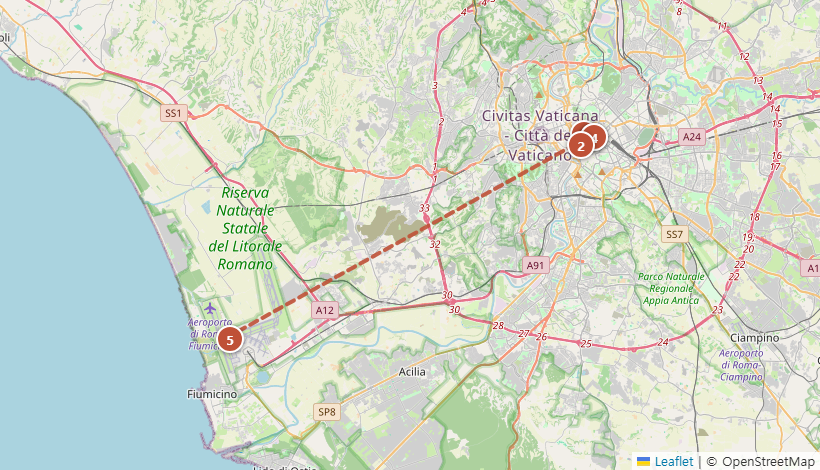
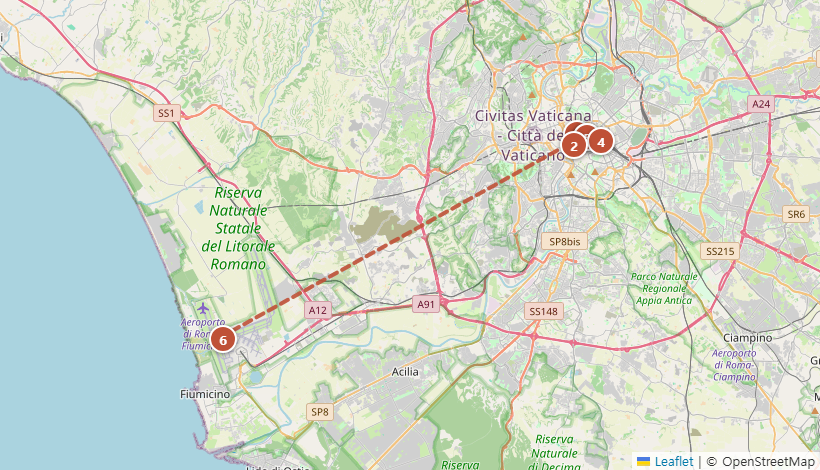
아시아나 스케줄 변경 반영 (OZ521 08:30 / OZ562 22:45)
2026-09-18 아시아나 통보 2건(예약 FNY59H).

🔴 OZ521 ICN→LHR 07:50 → 08:30
- LHR 도착 14:20 → 약 15:00, A3603(16:35) 환승이 2h15 → 1h35로 축소.
- OZ521·A3603 모두 히드로 T2(스타얼라이언스)라 터미널 이동은 없고 같은
  터미널 MCT 60분은 통과하지만, 국제→국제 권장치(90~120분) 경계라
  여유가 5~35분뿐. OZ521이 30분만 밀려도 미스커넥트.
- 10/10 카드에 경고·게이트 직행 안내·실질 탑승마감(16:15) 추가.
- 미스커넥트 플랜B를 alts에 명시: 같은 발권이면 A3609(LHR 22:15 →
  ATH 03:50) 무료 배치, 그 경우 숙소 새벽 도착 통보 + 10/11 오전 포기하고
  오후 한국어 투어만 살리기.
- 준비 탭 최우선 항목 교체: e-티켓 티켓번호로 단일/별도 발권 자가진단
  (988 한 종류 = 단일 발권, A3 구간에 390 별도 번호 = 별도 발권이라
  95분으로 불가), 구매처 우선 연락, 항공사 귀책이므로 무상 재조정 요구.
- ICN 05:30 도착·LHR 게이트 직행을 당일 체크리스트로 분리.

🟢 OZ562 FCO→ICN 21:25 → 22:45
- 인천 도착 10/24(토) 15:40 → 약 17:00. FCO 하드마감 18:20 → 19:45.
- 짐 찾기 15:30 → 17:00, 택시 출발 17:15로 조정.
- 생긴 1시간 25분에 팔라초 마시모(국립로마박물관) 선택 일정 추가.
  테르미니역 옆이라 공항 동선 위에 그대로 걸림. 금요일 정상 개관,
  €8/인, 예약 불필요, 실내. 사용자 요청대로 "안 가도 된다"를 소개글·
  행·대안칩 세 군데에 명시 — 지치면 생략하고 17:00 짐 찾기만 지키면 됨.
- 마지막 페이지(10/24) 도착 시각, DAYS[13] 좌표·시각, map-13.png 갱신.
- 준비 탭에 귀국 후 일정(공항 픽업 등) 재확인 항목 추가.

기타:
- 예약 캘린더에 '오늘 당장' 줄 신설 (OZ521 통화 / Cavo Tagoo 시즌 종료 /
  GQ350 시각 확정).
- test.js: 새 시각 반영 + 옛 시각이 "07:50 → 08:30" 같은 변경 안내
  문맥 밖에 남아 있으면 실패하도록 검증 추가. 캐시 버전 검사는
  고정값 대신 형식 검사로 완화.
- sw.js 캐시 v5 → v6.

diff --git a/index.html b/index.html
@@ -284,7 +284,8 @@
   <div class="day-h"><div class="daytag" style="--c: var(--teal)"><div><span class="dow">준비</span><div class="dt">D-day</div></div></div><div><div class="title">출발 전 준비</div><div class="sub">여권·비자·보험·현금 · 예약 캘린더 · 긴급정보</div></div></div>
   <div class="sec daysec"><div class="sec-h"><h2>🧳 챙길 것 · 확인</h2></div><div class="list"><label class="item"><input type="checkbox" data-k="p-cavo-season" /><span class="box"><svg viewBox="0 0 14 14"><path d="M2 7.5 L6 11 L12 3" /></svg></span><span class="txt"><span class="name">Cavo Tagoo <b>10/19 시즌 종료</b> 메일 확인 <span class='tag hot'>최우선</span></span><span class="desc">2026 시즌이 <b>4/30~10/19</b>로 공지돼 있어 <b>체크아웃 날이 시즌 마지막 날</b>입니다. 막바지엔 스파·레스토랑을 먼저 닫는 사례가 있고 드물게 폐관일을 앞당깁니다. 메일 4문항: ① 10/16~19 예약 유효 ② <b>10/18 커플 스파 운영</b> ③ 인피니티풀·케이브 레스토랑 10/19까지 정상 ④ 10/19 레이트 체크아웃</span></span></label><label class="item"><input type="checkbox" data-k="p-brewtour" /><span class="box"><svg viewBox="0 0 14 14"><path d="M2 7.5 L6 11 L12 3" /></svg></span><span class="txt"><span class="name">🍺 아테네 브루어리 홉핑 투어 예약 (10/12 저녁)</span><span class="desc">그리스 법상 브루어리 상설 탭룸 금지 → <b>Noctua는 가이드 투어로만 내부 진입</b>. 3~3.5h, 2인 €100~150, 시음+안주(저녁 겸용). GetYourGuide·Viator·gastronomytours.com. 플랜B = Strange Brew 탭룸(숙소 도보 5분, 예약 불필요)</span></span></label><label class="item"><input type="checkbox" data-k="p-passport" /><span class="box"><svg viewBox="0 0 14 14"><path d="M2 7.5 L6 11 L12 3" /></svg></span><span class="txt"><span class="name">여권 3개월+ 유효 · 사본 폰 저장 <span class='tag hot'>필수</span></span><span class="desc">솅겐 출국(10/23) 기준 잔여 3개월 이상 + 발급 10년 이내. 갱신 2~3주. 여권 사진·사본 클라우드 저장</span></span></label><label class="item"><input type="checkbox" data-k="p-etias" /><span class="box"><svg viewBox="0 0 14 14"><path d="M2 7.5 L6 11 L12 3" /></svg></span><span class="txt"><span class="name">솅겐 ETIAS 시행 여부 확인</span><span class="desc">travel-europe.europa.eu. 시행됐으면 신청(€7, 몇 분). 한국 여권 90일 무비자는 유지</span></span></label><label class="item"><input type="checkbox" data-k="p-insurance" /><span class="box"><svg viewBox="0 0 14 14"><path d="M2 7.5 L6 11 L12 3" /></svg></span><span class="txt"><span class="name">여행자보험 가입 (2인, 10/10~10/24)</span><span class="desc">의료+휴대품+항공지연. 증권 PDF 폰 저장</span></span></label><label class="item"><input type="checkbox" data-k="p-esim" /><span class="box"><svg viewBox="0 0 14 14"><path d="M2 7.5 L6 11 L12 3" /></svg></span><span class="txt"><span class="name">EU 전역 eSIM</span><span class="desc">Airalo/Holafly 등 10~15GB. 그리스·이탈리아 공용</span></span></label><label class="item"><input type="checkbox" data-k="p-strike-check" /><span class="box"><svg viewBox="0 0 14 14"><path d="M2 7.5 L6 11 L12 3" /></svg></span><span class="txt"><span class="name">출발 1주 전 유적 개장시간·파업 재확인</span><span class="desc">그리스는 유적·박물관 노조 파업으로 당일 휴관 생김. culture.gov.gr 공지. 아크로폴리스 2026년 10월 개장(확인 완료): 10/1~10/15 08:00~18:30(마감 18:00), 10/16~10/31 08:00~18:00(마감 17:30)</span></span></label><label class="item"><input type="checkbox" data-k="r-cards-cash" /><span class="box"><svg viewBox="0 0 14 14"><path d="M2 7.5 L6 11 L12 3" /></svg></span><span class="txt"><span class="name">해외결제 카드 2장 + 유로 현금 2인 €700~900</span><span class="desc">€50 이하 지폐로. 산토리니 버스·택시·소형 식당은 현금</span></span></label><label class="item"><input type="checkbox" data-k="r-adapter" /><span class="box"><svg viewBox="0 0 14 14"><path d="M2 7.5 L6 11 L12 3" /></svg></span><span class="txt"><span class="name">C타입 유럽 플러그(220V)</span><span class="desc">한국과 같은 C형이라 어댑터 불필요할 수 있음, 멀티탭 1개</span></span></label><label class="item"><input type="checkbox" data-k="r-shoes" /><span class="box"><svg viewBox="0 0 14 14"><path d="M2 7.5 L6 11 L12 3" /></svg></span><span class="txt"><span class="name">편한 운동화 + 미끄럼 없는 신발</span><span class="desc">대리석·자갈길·돌바닥. 저녁용 신발 따로</span></span></label><label class="item"><input type="checkbox" data-k="r-layers" /><span class="box"><svg viewBox="0 0 14 14"><path d="M2 7.5 L6 11 L12 3" /></svg></span><span class="txt"><span class="name">10월 옷차림 낮 22~26℃ / 밤 15~18℃</span><span class="desc">얇은 겉옷, 산토리니 저녁 바람막이, 성당용 어깨·무릎 가리는 옷, 수영복</span></span></label><label class="item"><input type="checkbox" data-k="r-sun" /><span class="box"><svg viewBox="0 0 14 14"><path d="M2 7.5 L6 11 L12 3" /></svg></span><span class="txt"><span class="name">선크림·선글라스·모자</span><span class="desc">아크로폴리스·포로 로마노·산토리니 능선 그늘 없음</span></span></label><label class="item"><input type="checkbox" data-k="r-meds" /><span class="box"><svg viewBox="0 0 14 14"><path d="M2 7.5 L6 11 L12 3" /></svg></span><span class="txt"><span class="name">상비약 + 멀미약</span><span class="desc">진통·지사·밴드·물집밴드. FR3021·요트 멀미약</span></span></label><label class="item"><input type="checkbox" data-k="r-daybag" /><span class="box"><svg viewBox="0 0 14 14"><path d="M2 7.5 L6 11 L12 3" /></svg></span><span class="txt"><span class="name">보안 크로스백 + 물통</span><span class="desc">로마 지하철·트라스테베레·나보나 소매치기. 유럽 수돗물·분수 식수 가능</span></span></label></div></div>
   <div class="note-card">📅 <b>예약 캘린더 (역산)</b><br>
-· <b>지금</b>: 가이드 회신 · 마이리얼트립 아테네 투어 · hhticket 통합권 · ATH/FR/국제선 항공 확인 · 여권/보험/eSIM · 10/21 남부투어 확정서 확인(예약완료)<br>
+· <b>🔴 오늘 당장</b>: <b>OZ521 스케줄 변경(07:50→08:30) → LHR 환승 95분</b> 구매처에 전화 · Cavo Tagoo 10/19 시즌 종료 확인 · GQ350 실제 시각 확정<br>
+· <b>지금</b>: 가이드 회신 · 마이리얼트립 아테네 투어 · hhticket 통합권 · 여권/보험/eSIM · 10/21 남부투어 확정서 확인(예약완료)<br>
 · <b>미슐랭</b>(Aroma 또는 Per Me, 10/22 저녁): 2~3개월 전<br>
 · <b>콜로세움·판테온</b>(10/22로 이동): 콜로세움 30일 전(9/22) 오픈 즉시, 판테온은 여유<br>
 · <b>산토리니 와인투어 · 요트투어(10/17) · Roscioli · 아테네 브루어리 투어</b>: 3주~1주 전<br>
@@ -321,7 +322,7 @@
         <div class="daytag" style="--c: var(--indigo)"><div><span class="dow">토</span><div class="dt">10/10</div></div></div>
         <div><div class="title">인천 출발 · 아테네 도착 <span class="pill">이동</span></div><div class="sub">OZ521+A3603 · ATH 22:15 도착 · 아테네 스튜디오(마크리야니, 시내) 1박</div></div>
       </div>
-      <div class="day-intro">🛬 <b>도착 당일은 자는 게 일정입니다.</b> 22:15 착륙 → 입국·수하물 60~90분 → <b>바로 시내(아크로폴리스 남쪽 마크리야니)로 이동</b>해 아테네 스튜디오에서 취침. 다음 날 도보 5분 거리의 코코맷 BC로 옮깁니다.<br><br>⚠ <b>OZ521(ICN→LHR)+A3603(LHR→ATH) 연결편, 히드로 환승 수하물 확인 필수</b> — 아래 이동 상세 참고.<br><br><b>💶 오늘 경비(2인)</b> · 🚕 공항 정액택시: 교통 €40(자정 이후 €55) · 입장 €0 · 식비 €10(공항 스낵) → <b>약 €50~65</b></div>
+      <div class="day-intro">🛬 <b>도착 당일은 자는 게 일정입니다.</b> 22:15 착륙 → 입국·수하물 60~90분 → <b>바로 시내(아크로폴리스 남쪽 마크리야니)로 이동</b>해 아테네 스튜디오에서 취침. 다음 날 도보 5분 거리의 코코맷 BC로 옮깁니다.<br><br>🔴 <b>2026-09-18 아시아나 스케줄 변경 통보 — OZ521 출발 07:50 → 08:30.</b> LHR 도착이 약 15:00이 되면서 A3603(16:35 출발) 환승시간이 <b>2시간 15분 → 1시간 35분</b>으로 줄었습니다. OZ521·A3603 둘 다 히드로 <b>T2</b>(스타얼라이언스)라 터미널 이동은 없고 같은 터미널 MCT 60분은 통과하지만, 국제→국제 권장치(90~120분) 경계라 <b>여유가 5~35분뿐</b>입니다. OZ521이 30분만 밀려도 놓칩니다.<br>→ <b>지금 할 일: A3603이 같은 발권인지 확인</b>(준비 탭 최우선 항목). e-티켓 티켓번호가 <b>988</b>로 시작하는 한 종류면 단일 발권(수하물 through-check 보장), A3 구간에 <b>390</b>으로 시작하는 별도 번호가 있으면 별도 발권이라 <b>95분으로는 물리적으로 불가능</b>합니다. 항공사 귀책 변경이므로 <b>무상 재조정 요구 가능</b>.<br><br><b>💶 오늘 경비(2인)</b> · 🚕 공항 정액택시: 교통 €40(자정 이후 €55) · 입장 €0 · 식비 €10(공항 스낵) → <b>약 €50~65</b></div>
       <div class="stats">
         <div class="stat"><b>22:15</b><span>도착</span></div>
         <div class="stat"><b>23:55</b><span>숙소</span></div>
@@ -330,17 +331,21 @@
         <div class="stat"><b>0곳</b><span>관광</span></div>
       </div>
       <div class="rows">
-        <div class="row"><div class="time">07:50</div><div class="act">인천공항(ICN) 출발 — OZ521 (ICN→LHR)<span class="note">공개 스케줄 기준(참고용) · A350, 약 14시간30분. e-티켓 실제 시각 재확인</span></div></div>
-        <div class="row"><div class="time">~14:20</div><div class="act">런던 히드로(LHR) 도착 → 환승<span class="note">국제-국제 환승이라 입국심사 없이 T2 내 트랜짓 보안검색만 통과(확인 완료). 환승시간 약 2시간15분. ⚠ <b>수하물이 ATH까지 한 번에 through-check 되는 단일 예약인지 반드시 확인</b> — 별도 발권이면 여기서 짐 찾고 영국 입국심사·재위탁까지 해야 해서 이 환승시간으론 부족함</span></div></div>
-        <div class="row"><div class="time">16:35</div><div class="act">A3603 (LHR→ATH) 탑승<span class="note">에게항공(스타얼라이언스, OZ와 동맹) · 공개 스케줄 기준. e-티켓 재확인</span></div></div>
+        <div class="row"><div class="time">08:30</div><div class="act">인천공항(ICN) 출발 — OZ521 (ICN→LHR)<span class="note"><b>2026-09-18 변경 통보: 07:50 → 08:30</b>(항공기점검 사유). A350, 약 14시간30분. 탑승 3시간 전 05:30 공항 도착 기준</span></div></div>
+        <div class="row"><div class="time">~15:00</div><div class="act">🔴 런던 히드로(LHR) T2 도착 → 환승 <span class="pill">1h35</span><span class="note">도착 14:20 → <b>약 15:00</b>(블록타임 14h30 동일 가정, e-티켓 실제 시각 재확인). 국제-국제 환승이라 입국심사 없이 <b>T2 내 트랜짓 보안검색만</b> 통과 — A3603도 같은 T2라 터미널 이동 없음.<br>⚠ <b>환승 1시간 35분.</b> 내리자마자 게이트 확인하고 바로 이동하세요. 라운지·면세는 시간 남을 때만. 도착 게이트가 위성터미널(T2B)이면 트랜짓 셔틀 5~10분 추가.<br>⚠ <b>별도 발권이면 여기서 짐 찾고 영국 입국심사·재위탁까지 해야 해서 95분으로는 불가능</b> — 출발 전에 반드시 판정해 두세요</span></div></div>
+        <div class="row"><div class="time">16:35</div><div class="act">A3603 (LHR→ATH) 탑승<span class="note">에게항공(스타얼라이언스, OZ와 동맹) · 히드로 T2. 탑승 마감은 출발 20분 전 = <b>16:15</b>가 실질 마감선. 공개 스케줄 기준이라 e-티켓 재확인</span></div></div>
         <div class="row"><div class="time">22:15</div><div class="act">아테네 국제공항(ATH) 도착<span class="note">입국심사 + 수하물 수취. 심야라 붐비진 않음</span></div></div>
         <div class="row"><div class="time">23:15</div><div class="act">공항 → 아테네 스튜디오 (3a Veikou St, 마크리야니)<span class="note">공항 정액택시 €40(주간) / 00:00~05:00 €55. 35~40분. 메트로 3호선은 막차 약 23:30이라 놓치기 쉬움(€9/인). 숙소에 심야 체크인 미리 메일 확인</span><span class="addr">📍 3a Veikou Street, Makrigianni, Athens 11742 <span class="en">(코코맷 BC서 도보 5분)</span></span><a class="map" href="https://www.google.com/maps/search/?api=1&query=3+Veikou+Street+Makrigianni+Athens" target="_blank" rel="noopener">🗺 지도</a></div></div>
         <div class="row"><div class="time">24:00</div><div class="act">취침<span class="note">저녁은 기내식으로 해결. 공항 내 24시간 스낵바 있음</span></div></div>
       </div>
       
 
-<div class="sec daysec"><div class="sec-h"><h2>✅ 오늘 체크리스트</h2></div><div class="list"><label class="item"><input type="checkbox" data-k="p-flight-oz-intl" /><span class="box"><svg viewBox="0 0 14 14"><path d="M2 7.5 L6 11 L12 3" /></svg></span><span class="txt"><span class="name">OZ521+A3603 연결편 수하물·환승 확인 <span class='tag hot'>확인 안 됨</span></span><span class="desc">ICN→LHR(OZ521)→ATH(A3603), 히드로 환승 약 2시간15분(입국심사 없음). 수하물이 ATH까지 through-check 되는 단일 예약인지 지금 확인 — 별도 발권이면 환승시간 부족</span></span></label><label class="item"><input type="checkbox" data-k="p-athens-transfer" /><span class="box"><svg viewBox="0 0 14 14"><path d="M2 7.5 L6 11 L12 3" /></svg></span><span class="txt"><span class="name">아테네 스튜디오 심야 픽업 확인 <span class='tag hot'>출발 전</span></span><span class="desc">22:15 도착·심야 체크인 가능 메일. 픽업 제공되면 예약(심야 택시 흥정 방지)</span></span></label><label class="item"><input type="checkbox" data-k="d10-esim" /><span class="box"><svg viewBox="0 0 14 14"><path d="M2 7.5 L6 11 L12 3" /></svg></span><span class="txt"><span class="name">eSIM 활성화 확인</span><span class="desc">착륙 직후 데이터 켜지게. 안 되면 공항 와이파이로 재설정</span></span></label><label class="item"><input type="checkbox" data-k="d10-cash" /><span class="box"><svg viewBox="0 0 14 14"><path d="M2 7.5 L6 11 L12 3" /></svg></span><span class="txt"><span class="name">공항 ATM에서 소액 유로 인출</span><span class="desc">택시비용. 은행계열 ATM, ‘원화 환산(DCC)’ 뜨면 거부</span></span></label></div></div>
-<div class="alts"><span class="alt">🚕 심야 택시는 공항 청사 밖 택시존 24시간 상주 · Uber/Bolt도 ATH는 ‘Uber Taxi’로 배차. 정액이라 흥정 불필요</span></div>
+<div class="sec daysec"><div class="sec-h"><h2>✅ 오늘 체크리스트</h2></div><div class="list"><label class="item"><input type="checkbox" data-k="p-flight-oz-intl" /><span class="box"><svg viewBox="0 0 14 14"><path d="M2 7.5 L6 11 L12 3" /></svg></span><span class="txt"><span class="name">🔴 OZ521 변경 → LHR 환승 95분, 구매처에 전화 <span class='tag hot'>최우선</span></span><span class="desc"><b>2026-09-18 통보: OZ521 07:50 → 08:30.</b> LHR 도착 약 15:00 → A3603(16:35) 환승이 <b>2h15 → 1h35</b>. 둘 다 히드로 T2라 터미널 이동은 없지만 여유가 5~35분뿐. <b>① e-티켓 자가진단</b>: 구간별 Ticket Number가 <b>988</b> 한 종류면 단일 발권(through-check 보장), A3603에 <b>390</b> 별도 번호면 별도 발권이라 95분으로 불가. <b>② 구매처 먼저</b>(발권처만 조회·변경 가능). 아시아나 직접이면 1588-8000(09:00~18:00). <b>메일 말고 전화</b>. <b>③ 요구</b>: single ticket 여부 · MCT 충족 여부 · <b>항공사 귀책이므로 무상 재조정</b> + A3609(22:15→ATH 03:50) 보호 확약</span></span></label><label class="item"><input type="checkbox" data-k="p-flight-oz562" /><span class="box"><svg viewBox="0 0 14 14"><path d="M2 7.5 L6 11 L12 3" /></svg></span><span class="txt"><span class="name">🟢 OZ562 변경 → 귀국 후 일정 재확인</span><span class="desc"><b>10/23 FCO 출발 21:25 → 22:45.</b> 인천 도착 10/24(토) 15:40 → <b>약 17:00</b>. 10/24 공항 픽업·귀가 교통 등이 잡혀 있으면 다시 잡을 것</span></span></label><label class="item"><input type="checkbox" data-k="p-athens-transfer" /><span class="box"><svg viewBox="0 0 14 14"><path d="M2 7.5 L6 11 L12 3" /></svg></span><span class="txt"><span class="name">아테네 스튜디오 심야 픽업 확인 <span class='tag hot'>출발 전</span></span><span class="desc">22:15 도착·심야 체크인 가능 메일. 픽업 제공되면 예약(심야 택시 흥정 방지)</span></span></label><label class="item"><input type="checkbox" data-k="d10-icn" /><span class="box"><svg viewBox="0 0 14 14"><path d="M2 7.5 L6 11 L12 3" /></svg></span><span class="txt"><span class="name">ICN 05:30 도착 (OZ521 08:30 출발)</span><span class="desc">출발 3시간 전. 변경된 시각 기준 — 예전 07:50 기준으로 알람 맞춰두지 말 것</span></span></label><label class="item"><input type="checkbox" data-k="d10-lhr" /><span class="box"><svg viewBox="0 0 14 14"><path d="M2 7.5 L6 11 L12 3" /></svg></span><span class="txt"><span class="name">LHR 내리자마자 게이트 확인 후 직행</span><span class="desc">환승 1시간 35분뿐. 라운지·면세는 시간 남을 때만. A3603 탑승 마감은 16:15가 실질 마감선. 도착 게이트가 T2B(위성)면 셔틀 5~10분 추가</span></span></label><label class="item"><input type="checkbox" data-k="d10-esim" /><span class="box"><svg viewBox="0 0 14 14"><path d="M2 7.5 L6 11 L12 3" /></svg></span><span class="txt"><span class="name">eSIM 활성화 확인</span><span class="desc">착륙 직후 데이터 켜지게. 안 되면 공항 와이파이로 재설정</span></span></label><label class="item"><input type="checkbox" data-k="d10-cash" /><span class="box"><svg viewBox="0 0 14 14"><path d="M2 7.5 L6 11 L12 3" /></svg></span><span class="txt"><span class="name">공항 ATM에서 소액 유로 인출</span><span class="desc">택시비용. 은행계열 ATM, ‘원화 환산(DCC)’ 뜨면 거부</span></span></label></div></div>
+<div class="alts">
+        <span class="alt">🔴 <b>A3603 놓쳤을 때</b>: 같은 발권이면 아에게안·아시아나가 다음 편으로 무료 배치 — <b>A3609 LHR 22:15 → ATH 03:50</b>(다음날 새벽)이 사실상 유일한 대안입니다. 그 경우 <b>아테네 스튜디오에 새벽 도착 통보</b>(04:40경)하고, 10/11 오전(짐 이동·제우스신전·모나스티라키)은 포기하고 오후 14:00 한국어 투어만 살리세요</span>
+        <span class="alt">🔴 별도 발권으로 판명되면: 아에게안 편을 <b>A3609(22:15)</b>로 무상 변경 요구 — 아시아나 귀책 스케줄 변경이라 근거 있음. 단 새벽 도착이라 그 경우 첫 밤 숙소 조정 필요</span>
+        <span class="alt">🚕 심야 택시는 공항 청사 밖 택시존 24시간 상주 · Uber/Bolt도 ATH는 ‘Uber Taxi’로 배차. 정액이라 흥정 불필요</span>
+      </div>
 </section>
 <section class="daypage" id="pg-1" data-day="1">
 <div class="day-h">
@@ -714,34 +719,36 @@
 <section class="daypage" id="pg-13" data-day="13">
 <div class="day-h">
         <div class="daytag" style="--c: var(--teal)"><div><span class="dow">금</span><div class="dt">10/23</div></div></div>
-        <div><div class="title">로마 마지막 오전 · 귀국 <span class="pill">이동</span></div><div class="sub">이른 아침 트레비/스페인계단 · 마지막 파스타 · FCO 18:20 도착 · OZ562 21:25</div></div>
+        <div><div class="title">로마 마지막 날 · 귀국 <span class="pill">이동</span></div><div class="sub">이른 아침 트레비/스페인계단 · 마지막 파스타 · (선택)팔라초 마시모 · FCO 19:45 도착 · OZ562 22:45</div></div>
       </div>
-      <div class="day-intro">🧳 <b>짐 맡기고 반나절, 저녁 비행기.</b> 인파 없는 이른 아침에 트레비·판테온을 다시 눈에 담고, 마지막 로마 파스타를 먹은 뒤 공항으로. OZ562는 21:25 출발이라 <b>18:20까지 FCO 도착</b>(3시간 전)을 하드 마감으로 잡습니다. 한국 도착은 10/24(토) 15:40.<br><br><b>💶 오늘 경비(2인)</b> · 🚕 FCO 정액택시(또는 레오나르도 익스프레스): 교통 €62(공항택시 €50·짐보관 €12) 또는 €40(기차 €28·짐보관 €12) · 입장 €0 · 식비 €52(아침 카페 €12·마지막 파스타 €40) → <b>약 €95~115</b></div>
+      <div class="day-intro">🧳 <b>짐 맡기고 하루, 밤 비행기.</b> 인파 없는 이른 아침에 트레비·판테온을 다시 눈에 담고, 마지막 로마 파스타를 먹은 뒤 공항으로.<br><br>🟢 <b>2026-09-18 아시아나 스케줄 변경 — OZ562 출발 21:25 → 22:45.</b> 덕분에 FCO 하드 마감이 <b>18:20 → 19:45</b>(3시간 전)로 밀려 로마에서 <b>1시간 25분</b>이 더 생겼습니다. 한국 도착은 10/24(토) 15:40 → <b>약 17:00</b>.<br>→ 그 시간을 <b>팔라초 마시모(국립로마박물관)</b>로 채워뒀습니다. <b>다만 필수 아닙니다</b> — 점심이 늘어지거나 지치면 그냥 카페·골목 산책으로 흘려보내도 되게 짜놨어요. 마지막 날이니 무리하지 마세요.<br><br><b>💶 오늘 경비(2인)</b> · 🚕 FCO 정액택시(또는 레오나르도 익스프레스): 교통 €62(공항택시 €50·짐보관 €12) 또는 €40(기차 €28·짐보관 €12) · 입장 €0 <span class="en">(팔라초 마시모 가면 €16)</span> · 식비 €52(아침 카페 €12·마지막 파스타 €40) → <b>약 €95~115</b> <span class="en">(박물관 포함 시 €111~131)</span></div>
       <div class="stats">
         <div class="stat"><b>08:00</b><span>시작</span></div>
-        <div class="stat"><b>18:20</b><span>공항</span></div>
+        <div class="stat"><b>19:45</b><span>공항</span></div>
         <div class="stat"><b>1:00</b><span>이동</span></div>
-        <div class="stat"><b>3.0km</b><span>도보</span></div>
-        <div class="stat"><b>2곳</b><span>관광</span></div>
+        <div class="stat"><b>3.5km</b><span>도보</span></div>
+        <div class="stat"><b>2+1곳</b><span>관광</span></div>
       </div>
       <div class="rows">
         <div class="row"><div class="time">08:00</div><div class="act">이른 아침 산책<span class="note">트레비 분수·스페인 계단은 08시 전이 텅 빔. 판테온 광장 카페에서 콤비네이션 아침(Sant'Eustachio Il Caffè 에스프레소)</span></div></div>
         <div class="row"><div class="time">10:30</div><div class="act">Casa Guttmann 체크아웃 · 짐 보관<span class="note">숙소 짐 보관 or Radical Storage 앱으로 인근 상점 보관(€5~6/개)</span></div></div>
         <div class="row"><div class="time">11:00</div><div class="act">젤라토·마지막 골목 산책 → 점심 · 마지막 파스타 (식당탭 10/23 A/B)</div></div>
-        <div class="row"><div class="time">15:30</div><div class="act">짐 찾기 → FCO 이동<span class="note">정액 택시 €50(45분) 또는 도보 5분 Barberini→메트로A Termini→레오나르도 익스프레스 €14(32분). 금요일 오후 교통 감안해 택시면 15:45 출발</span></div></div>
-        <div class="row"><div class="time">18:20</div><div class="act">피우미치노 공항(FCO) 도착 — 하드 마감<span class="note">아시아나 체크인·수하물·세금환급(택스리펀드) 키오스크 시간 필요. 논-EU 환급은 출국심사 전 세관 승인</span></div></div>
-        <div class="row"><div class="time">21:25</div><div class="act">OZ562 FCO → ICN<span class="note">인천 도착 10/24(토) 15:40</span></div></div>
+        <div class="row"><div class="time">15:00<br><span class="en">선택</span></div><div class="act">🏛 (선택) 팔라초 마시모 — 국립로마박물관<span class="note"><b>안 가도 됩니다.</b> OZ562가 늦춰져 생긴 1시간 25분을 쓰고 싶을 때만. 점심이 늘어졌거나 지쳤으면 그냥 카페·골목 산책으로 흘려보내세요.<br>테르미니역 바로 옆이라 <b>공항 동선 위에 그대로 걸립니다</b> — 보고 나와서 레오나르도 익스프레스를 타면 끝. 금요일 정상 개관(화~일 09:00~19:00, 마지막 입장 18:00), €8/인, 예약 불필요, 실내라 비 와도 무관. 아우구스투스 부인 리비아 별장 프레스코·복서 청동상. <b>1시간이면 충분</b></span><span class="addr">📍 Palazzo Massimo alle Terme, Largo di Villa Peretti 2 <span class="en">(Termini역 도보 2분)</span></span><a class="map" href="https://www.google.com/maps/search/?api=1&query=Palazzo+Massimo+alle+Terme+Roma" target="_blank" rel="noopener">🗺 지도</a></div></div>
+        <div class="row"><div class="time">17:00</div><div class="act">짐 찾기 → FCO 이동<span class="note">정액 택시 €50(45분) 또는 도보 5분 Barberini→메트로A Termini→레오나르도 익스프레스 €14(32분). 금요일 퇴근시간대라 택시면 <b>17:15 출발</b>. 팔라초 마시모에 갔다면 짐을 미리 찾아 테르미니 물품보관소에 맡기고 보는 편이 동선상 깔끔</span></div></div>
+        <div class="row"><div class="time">19:45</div><div class="act">피우미치노 공항(FCO) 도착 — 하드 마감<span class="note">출발 3시간 전. 아시아나 체크인 카운터도 보통 3시간 전 오픈이라 <b>더 일찍 가도 기다립니다</b>. 수하물·세금환급(택스리펀드) 키오스크 시간 필요 — 논-EU 환급은 출국심사 전 세관 승인</span></div></div>
+        <div class="row"><div class="time">22:45</div><div class="act">OZ562 FCO → ICN<span class="note"><b>2026-09-18 변경 통보: 21:25 → 22:45</b>(항공기 운영안 조정). 인천 도착 10/24(토) 15:40 → <b>약 17:00</b>. 공항픽업·다음 일정 있으면 다시 잡으세요</span></div></div>
       </div>
       
 <div class="sec daysec"><div class="sec-h"><h2>🍽 오늘 식당 선택</h2></div><div class="list"><div class="note-card" style="margin:0 0 8px">🍽 점심 Ⓐ Trattoria Der Pallaro / Ⓑ Pastificio Guerra</div><label class="item"><input type="checkbox" data-k="f-rom-1023l-derpallaro" /><span class="box"><svg viewBox="0 0 14 14"><path d="M2 7.5 L6 11 L12 3" /></svg></span><span class="txt"><span class="name">10/23 점심 <span class="tag a">A</span> Trattoria Der Pallaro</span><span class="desc">메뉴 없이 나오는 대로 주는 세트(전채~디저트+와인 €25 내외). 옛 로마 가정식. 캄포 데 피오리 근처</span></span></label><label class="item"><input type="checkbox" data-k="f-rom-1023l-guerra" /><span class="box"><svg viewBox="0 0 14 14"><path d="M2 7.5 L6 11 L12 3" /></svg></span><span class="txt"><span class="name">10/23 점심 <span class="tag b">B</span> Pastificio Guerra</span><span class="desc">스페인 계단 옆, 매일 2가지 파스타 €4 서서. 12:30~15:00 한정. 빠르게 마지막 한 그릇</span></span></label></div></div>
-<div class="sec daysec"><div class="sec-h"><h2>✅ 오늘 체크리스트</h2></div><div class="list"><label class="item"><input type="checkbox" data-k="d23-checkout" /><span class="box"><svg viewBox="0 0 14 14"><path d="M2 7.5 L6 11 L12 3" /></svg></span><span class="txt"><span class="name">Casa Guttmann 체크아웃 · 짐 보관</span><span class="desc">숙소 or Radical Storage 앱(€5~6/개)</span></span></label><label class="item"><input type="checkbox" data-k="d23-taxrefund" /><span class="box"><svg viewBox="0 0 14 14"><path d="M2 7.5 L6 11 L12 3" /></svg></span><span class="txt"><span class="name">택스리펀 서류 → FCO 세관</span><span class="desc">출국심사 전 세관 승인/키오스크. 시간 걸리니 공항 일찍</span></span></label><label class="item"><input type="checkbox" data-k="d23-fco" /><span class="box"><svg viewBox="0 0 14 14"><path d="M2 7.5 L6 11 L12 3" /></svg></span><span class="txt"><span class="name">15:30~15:45 FCO 이동</span><span class="desc">정액택시 €50 / 레오나르도 익스프레스 €14. 18:20 도착 목표(OZ562 21:25 → ICN 10/24 15:40)</span></span></label></div></div>
+<div class="sec daysec"><div class="sec-h"><h2>✅ 오늘 체크리스트</h2></div><div class="list"><label class="item"><input type="checkbox" data-k="d23-checkout" /><span class="box"><svg viewBox="0 0 14 14"><path d="M2 7.5 L6 11 L12 3" /></svg></span><span class="txt"><span class="name">Casa Guttmann 체크아웃 · 짐 보관</span><span class="desc">숙소 or Radical Storage 앱(€5~6/개)</span></span></label><label class="item"><input type="checkbox" data-k="d23-taxrefund" /><span class="box"><svg viewBox="0 0 14 14"><path d="M2 7.5 L6 11 L12 3" /></svg></span><span class="txt"><span class="name">택스리펀 서류 → FCO 세관</span><span class="desc">출국심사 전 세관 승인/키오스크. 시간 걸리니 공항 일찍</span></span></label><label class="item"><input type="checkbox" data-k="d23-massimo" /><span class="box"><svg viewBox="0 0 14 14"><path d="M2 7.5 L6 11 L12 3" /></svg></span><span class="txt"><span class="name">(선택) 팔라초 마시모 15:00</span><span class="desc"><b>안 가도 됨.</b> OZ562가 밀려 생긴 1h25를 쓰고 싶을 때만. 테르미니역 옆이라 공항 동선 위. 금 09:00~19:00(마지막 입장 18:00), €8/인, 예약 불필요. 지치면 생략하고 카페에서 쉬기</span></span></label><label class="item"><input type="checkbox" data-k="d23-fco" /><span class="box"><svg viewBox="0 0 14 14"><path d="M2 7.5 L6 11 L12 3" /></svg></span><span class="txt"><span class="name">17:00~17:15 FCO 이동</span><span class="desc">정액택시 €50 / 레오나르도 익스프레스 €14. <b>19:45 도착 목표</b>(OZ562 <b>22:45</b> → ICN 10/24 <b>약 17:00</b>). 금요일 퇴근시간대 감안</span></span></label></div></div>
 <div class="alts">
-        <span class="alt">☔ 비: 실내로 — 도리아 팜필리 미술관 or 마시모 궁 국립로마박물관(테르미니 옆, 공항 동선상 유리)</span>
+        <span class="alt">☔ 비: 실내로 — 오후를 통째로 팔라초 마시모(위 선택 항목)에 쓰거나 도리아 팜필리 미술관</span>
+        <span class="alt">😌 <b>팔라초 마시모는 선택입니다</b> — 점심이 늘어졌거나 지쳤으면 생략하고 카페에서 쉬다 공항으로. 17:00 짐 찾기만 지키면 됩니다</span>
         <span class="alt">🈳 점심 만석: Pastificio Guerra(Via della Croce 8, 서서 먹는 파스타 €4, 스페인계단 옆) — 12:30~15:00만</span>
       </div>
 </section>
 <section class="daypage" id="pg-end">
-  <div class="day-h"><div class="daytag" style="--c: var(--gold)"><div><span class="dow">토</span><div class="dt">10/24</div></div></div><div><div class="title">인천 도착</div><div class="sub">OZ562 FCO 21:25 → ICN 15:40</div></div></div>
+  <div class="day-h"><div class="daytag" style="--c: var(--gold)"><div><span class="dow">토</span><div class="dt">10/24</div></div></div><div><div class="title">인천 도착</div><div class="sub">OZ562 FCO 22:45 → ICN 약 17:00</div></div></div>
   <div class="note-card">집으로. 수고했어요 ✈<br>지도는 인터넷 필요(오프라인은 각 날 ‘동선’ 텍스트 + 캡처 이미지). 값(영업시간·요금·시각)은 예약 전 공식 사이트 재확인.</div>
 </section>
 </main>
@@ -764,7 +771,7 @@ var DAYS = [
       [ [41.9036,12.4890,"Casa Guttmann 출발 · 08:20"],[41.9065,12.4536,"바티칸 박물관·시스티나 · 09:00"],[41.9022,12.4539,"성 베드로 대성당 · 12:00"],[41.9070,12.4600,"점심 Prati/Borgo · 13:30"],[41.9031,12.4663,"천사의 성 · 15:00"],[41.8986,12.4769,"저녁 판테온 인근 · 19:00"],[41.9036,12.4890,"Casa Guttmann 취침 · 21:00"] ],
       [ [41.9036,12.4890,"Casa Guttmann 출발 · 06:00"],[41.9075,12.5025,"픽업 Hotel Galles · 06:20"],[40.7461,14.4989,"폼페이 유적 · 09:00"],[40.6263,14.3757,"소렌토 전망대 · 11:00"],[40.6270,14.5310,"아말피 코스트 해안도로 · 13:00"],[40.6280,14.4849,"포지타노 자유시간 · 15:00"],[40.6824,14.7681,"살레르노 페리 도착 · 18:00"],[41.9036,12.4890,"로마 도착·해산 · 21:00(추정)"] ],
       [ [41.9036,12.4890,"Casa Guttmann 출발 · 08:20"],[41.8902,12.4922,"콜로세움 · 09:00"],[41.8912,12.4864,"포로 로마노·팔라티노 · 10:45"],[41.8986,12.4769,"판테온 · 13:00"],[41.8946,12.4740,"Roscioli 점심 · 14:30"],[41.8894,12.4695,"산타 마리아 인 트라스테베레 · 16:00"],[41.8917,12.4630,"자니콜로 언덕 일몰 · 17:15"],[41.8985,12.4675,"마지막 만찬 · 20:00"],[41.9036,12.4890,"Casa Guttmann 취침 · 22:00"] ],
-      [ [41.9036,12.4890,"Casa Guttmann 출발 · 08:00"],[41.8998,12.4800,"이른 아침 트레비·판테온 · 08:00"],[41.9055,12.4820,"마지막 점심(스페인계단 인근) · 11:30"],[41.9036,12.4890,"체크아웃·짐 찾기 · 15:30"],[41.8003,12.2389,"피우미치노 공항 FCO · 18:20"] ]
+      [ [41.9036,12.4890,"Casa Guttmann 출발 · 08:00"],[41.8998,12.4800,"이른 아침 트레비·판테온 · 08:00"],[41.9055,12.4820,"마지막 점심(스페인계단 인근) · 11:30"],[41.9018,12.4980,"(선택) 팔라초 마시모 · 15:00"],[41.9036,12.4890,"체크아웃·짐 찾기 · 17:00"],[41.8003,12.2389,"피우미치노 공항 FCO · 19:45"] ]
     ];
 var FOOD = [
       null,

diff --git a/greece-italy-honeymoon-2026.src.html b/greece-italy-honeymoon-2026.src.html
@@ -196,7 +196,7 @@
         <div class="daytag" style="--c: var(--indigo)"><div><span class="dow">토</span><div class="dt">10/10</div></div></div>
         <div><div class="title">인천 출발 · 아테네 도착 <span class="pill">이동</span></div><div class="sub">OZ521+A3603 · ATH 22:15 도착 · 아테네 스튜디오(마크리야니, 시내) 1박</div></div>
       </div>
-      <div class="day-intro">🛬 <b>도착 당일은 자는 게 일정입니다.</b> 22:15 착륙 → 입국·수하물 60~90분 → <b>바로 시내(아크로폴리스 남쪽 마크리야니)로 이동</b>해 아테네 스튜디오에서 취침. 다음 날 도보 5분 거리의 코코맷 BC로 옮깁니다.<br><br>⚠ <b>OZ521(ICN→LHR)+A3603(LHR→ATH) 연결편, 히드로 환승 수하물 확인 필수</b> — 아래 이동 상세 참고.<br><br><b>💶 오늘 경비(2인)</b> · 🚕 공항 정액택시: 교통 €40(자정 이후 €55) · 입장 €0 · 식비 €10(공항 스낵) → <b>약 €50~65</b></div>
+      <div class="day-intro">🛬 <b>도착 당일은 자는 게 일정입니다.</b> 22:15 착륙 → 입국·수하물 60~90분 → <b>바로 시내(아크로폴리스 남쪽 마크리야니)로 이동</b>해 아테네 스튜디오에서 취침. 다음 날 도보 5분 거리의 코코맷 BC로 옮깁니다.<br><br>🔴 <b>2026-09-18 아시아나 스케줄 변경 통보 — OZ521 출발 07:50 → 08:30.</b> LHR 도착이 약 15:00이 되면서 A3603(16:35 출발) 환승시간이 <b>2시간 15분 → 1시간 35분</b>으로 줄었습니다. OZ521·A3603 둘 다 히드로 <b>T2</b>(스타얼라이언스)라 터미널 이동은 없고 같은 터미널 MCT 60분은 통과하지만, 국제→국제 권장치(90~120분) 경계라 <b>여유가 5~35분뿐</b>입니다. OZ521이 30분만 밀려도 놓칩니다.<br>→ <b>지금 할 일: A3603이 같은 발권인지 확인</b>(준비 탭 최우선 항목). e-티켓 티켓번호가 <b>988</b>로 시작하는 한 종류면 단일 발권(수하물 through-check 보장), A3 구간에 <b>390</b>으로 시작하는 별도 번호가 있으면 별도 발권이라 <b>95분으로는 물리적으로 불가능</b>합니다. 항공사 귀책 변경이므로 <b>무상 재조정 요구 가능</b>.<br><br><b>💶 오늘 경비(2인)</b> · 🚕 공항 정액택시: 교통 €40(자정 이후 €55) · 입장 €0 · 식비 €10(공항 스낵) → <b>약 €50~65</b></div>
       <div class="stats">
         <div class="stat"><b>22:15</b><span>도착</span></div>
         <div class="stat"><b>23:55</b><span>숙소</span></div>
@@ -205,14 +205,18 @@
         <div class="stat"><b>0곳</b><span>관광</span></div>
       </div>
       <div class="rows">
-        <div class="row"><div class="time">07:50</div><div class="act">인천공항(ICN) 출발 — OZ521 (ICN→LHR)<span class="note">공개 스케줄 기준(참고용) · A350, 약 14시간30분. e-티켓 실제 시각 재확인</span></div></div>
-        <div class="row"><div class="time">~14:20</div><div class="act">런던 히드로(LHR) 도착 → 환승<span class="note">국제-국제 환승이라 입국심사 없이 T2 내 트랜짓 보안검색만 통과(확인 완료). 환승시간 약 2시간15분. ⚠ <b>수하물이 ATH까지 한 번에 through-check 되는 단일 예약인지 반드시 확인</b> — 별도 발권이면 여기서 짐 찾고 영국 입국심사·재위탁까지 해야 해서 이 환승시간으론 부족함</span></div></div>
-        <div class="row"><div class="time">16:35</div><div class="act">A3603 (LHR→ATH) 탑승<span class="note">에게항공(스타얼라이언스, OZ와 동맹) · 공개 스케줄 기준. e-티켓 재확인</span></div></div>
+        <div class="row"><div class="time">08:30</div><div class="act">인천공항(ICN) 출발 — OZ521 (ICN→LHR)<span class="note"><b>2026-09-18 변경 통보: 07:50 → 08:30</b>(항공기점검 사유). A350, 약 14시간30분. 탑승 3시간 전 05:30 공항 도착 기준</span></div></div>
+        <div class="row"><div class="time">~15:00</div><div class="act">🔴 런던 히드로(LHR) T2 도착 → 환승 <span class="pill">1h35</span><span class="note">도착 14:20 → <b>약 15:00</b>(블록타임 14h30 동일 가정, e-티켓 실제 시각 재확인). 국제-국제 환승이라 입국심사 없이 <b>T2 내 트랜짓 보안검색만</b> 통과 — A3603도 같은 T2라 터미널 이동 없음.<br>⚠ <b>환승 1시간 35분.</b> 내리자마자 게이트 확인하고 바로 이동하세요. 라운지·면세는 시간 남을 때만. 도착 게이트가 위성터미널(T2B)이면 트랜짓 셔틀 5~10분 추가.<br>⚠ <b>별도 발권이면 여기서 짐 찾고 영국 입국심사·재위탁까지 해야 해서 95분으로는 불가능</b> — 출발 전에 반드시 판정해 두세요</span></div></div>
+        <div class="row"><div class="time">16:35</div><div class="act">A3603 (LHR→ATH) 탑승<span class="note">에게항공(스타얼라이언스, OZ와 동맹) · 히드로 T2. 탑승 마감은 출발 20분 전 = <b>16:15</b>가 실질 마감선. 공개 스케줄 기준이라 e-티켓 재확인</span></div></div>
         <div class="row"><div class="time">22:15</div><div class="act">아테네 국제공항(ATH) 도착<span class="note">입국심사 + 수하물 수취. 심야라 붐비진 않음</span></div></div>
         <div class="row"><div class="time">23:15</div><div class="act">공항 → 아테네 스튜디오 (3a Veikou St, 마크리야니)<span class="note">공항 정액택시 €40(주간) / 00:00~05:00 €55. 35~40분. 메트로 3호선은 막차 약 23:30이라 놓치기 쉬움(€9/인). 숙소에 심야 체크인 미리 메일 확인</span><span class="addr">📍 3a Veikou Street, Makrigianni, Athens 11742 <span class="en">(코코맷 BC서 도보 5분)</span></span><a class="map" href="https://www.google.com/maps/search/?api=1&query=3+Veikou+Street+Makrigianni+Athens" target="_blank" rel="noopener">🗺 지도</a></div></div>
         <div class="row"><div class="time">24:00</div><div class="act">취침<span class="note">저녁은 기내식으로 해결. 공항 내 24시간 스낵바 있음</span></div></div>
       </div>
-      <div class="alts"><span class="alt">🚕 심야 택시는 공항 청사 밖 택시존 24시간 상주 · Uber/Bolt도 ATH는 ‘Uber Taxi’로 배차. 정액이라 흥정 불필요</span></div>
+      <div class="alts">
+        <span class="alt">🔴 <b>A3603 놓쳤을 때</b>: 같은 발권이면 아에게안·아시아나가 다음 편으로 무료 배치 — <b>A3609 LHR 22:15 → ATH 03:50</b>(다음날 새벽)이 사실상 유일한 대안입니다. 그 경우 <b>아테네 스튜디오에 새벽 도착 통보</b>(04:40경)하고, 10/11 오전(짐 이동·제우스신전·모나스티라키)은 포기하고 오후 14:00 한국어 투어만 살리세요</span>
+        <span class="alt">🔴 별도 발권으로 판명되면: 아에게안 편을 <b>A3609(22:15)</b>로 무상 변경 요구 — 아시아나 귀책 스케줄 변경이라 근거 있음. 단 새벽 도착이라 그 경우 첫 밤 숙소 조정 필요</span>
+        <span class="alt">🚕 심야 택시는 공항 청사 밖 택시존 24시간 상주 · Uber/Bolt도 ATH는 ‘Uber Taxi’로 배차. 정액이라 흥정 불필요</span>
+      </div>
     </div>
 
     <!-- 10/11 -->
@@ -576,26 +580,28 @@
     <div class="day">
       <div class="day-h">
         <div class="daytag" style="--c: var(--teal)"><div><span class="dow">금</span><div class="dt">10/23</div></div></div>
-        <div><div class="title">로마 마지막 오전 · 귀국 <span class="pill">이동</span></div><div class="sub">이른 아침 트레비/스페인계단 · 마지막 파스타 · FCO 18:20 도착 · OZ562 21:25</div></div>
+        <div><div class="title">로마 마지막 날 · 귀국 <span class="pill">이동</span></div><div class="sub">이른 아침 트레비/스페인계단 · 마지막 파스타 · (선택)팔라초 마시모 · FCO 19:45 도착 · OZ562 22:45</div></div>
       </div>
-      <div class="day-intro">🧳 <b>짐 맡기고 반나절, 저녁 비행기.</b> 인파 없는 이른 아침에 트레비·판테온을 다시 눈에 담고, 마지막 로마 파스타를 먹은 뒤 공항으로. OZ562는 21:25 출발이라 <b>18:20까지 FCO 도착</b>(3시간 전)을 하드 마감으로 잡습니다. 한국 도착은 10/24(토) 15:40.<br><br><b>💶 오늘 경비(2인)</b> · 🚕 FCO 정액택시(또는 레오나르도 익스프레스): 교통 €62(공항택시 €50·짐보관 €12) 또는 €40(기차 €28·짐보관 €12) · 입장 €0 · 식비 €52(아침 카페 €12·마지막 파스타 €40) → <b>약 €95~115</b></div>
+      <div class="day-intro">🧳 <b>짐 맡기고 하루, 밤 비행기.</b> 인파 없는 이른 아침에 트레비·판테온을 다시 눈에 담고, 마지막 로마 파스타를 먹은 뒤 공항으로.<br><br>🟢 <b>2026-09-18 아시아나 스케줄 변경 — OZ562 출발 21:25 → 22:45.</b> 덕분에 FCO 하드 마감이 <b>18:20 → 19:45</b>(3시간 전)로 밀려 로마에서 <b>1시간 25분</b>이 더 생겼습니다. 한국 도착은 10/24(토) 15:40 → <b>약 17:00</b>.<br>→ 그 시간을 <b>팔라초 마시모(국립로마박물관)</b>로 채워뒀습니다. <b>다만 필수 아닙니다</b> — 점심이 늘어지거나 지치면 그냥 카페·골목 산책으로 흘려보내도 되게 짜놨어요. 마지막 날이니 무리하지 마세요.<br><br><b>💶 오늘 경비(2인)</b> · 🚕 FCO 정액택시(또는 레오나르도 익스프레스): 교통 €62(공항택시 €50·짐보관 €12) 또는 €40(기차 €28·짐보관 €12) · 입장 €0 <span class="en">(팔라초 마시모 가면 €16)</span> · 식비 €52(아침 카페 €12·마지막 파스타 €40) → <b>약 €95~115</b> <span class="en">(박물관 포함 시 €111~131)</span></div>
       <div class="stats">
         <div class="stat"><b>08:00</b><span>시작</span></div>
-        <div class="stat"><b>18:20</b><span>공항</span></div>
+        <div class="stat"><b>19:45</b><span>공항</span></div>
         <div class="stat"><b>1:00</b><span>이동</span></div>
-        <div class="stat"><b>3.0km</b><span>도보</span></div>
-        <div class="stat"><b>2곳</b><span>관광</span></div>
+        <div class="stat"><b>3.5km</b><span>도보</span></div>
+        <div class="stat"><b>2+1곳</b><span>관광</span></div>
       </div>
       <div class="rows">
         <div class="row"><div class="time">08:00</div><div class="act">이른 아침 산책<span class="note">트레비 분수·스페인 계단은 08시 전이 텅 빔. 판테온 광장 카페에서 콤비네이션 아침(Sant'Eustachio Il Caffè 에스프레소)</span></div></div>
         <div class="row"><div class="time">10:30</div><div class="act">Casa Guttmann 체크아웃 · 짐 보관<span class="note">숙소 짐 보관 or Radical Storage 앱으로 인근 상점 보관(€5~6/개)</span></div></div>
         <div class="row"><div class="time">11:00</div><div class="act">젤라토·마지막 골목 산책 → 점심 · 마지막 파스타 (식당탭 10/23 A/B)</div></div>
-        <div class="row"><div class="time">15:30</div><div class="act">짐 찾기 → FCO 이동<span class="note">정액 택시 €50(45분) 또는 도보 5분 Barberini→메트로A Termini→레오나르도 익스프레스 €14(32분). 금요일 오후 교통 감안해 택시면 15:45 출발</span></div></div>
-        <div class="row"><div class="time">18:20</div><div class="act">피우미치노 공항(FCO) 도착 — 하드 마감<span class="note">아시아나 체크인·수하물·세금환급(택스리펀드) 키오스크 시간 필요. 논-EU 환급은 출국심사 전 세관 승인</span></div></div>
-        <div class="row"><div class="time">21:25</div><div class="act">OZ562 FCO → ICN<span class="note">인천 도착 10/24(토) 15:40</span></div></div>
+        <div class="row"><div class="time">15:00<br><span class="en">선택</span></div><div class="act">🏛 (선택) 팔라초 마시모 — 국립로마박물관<span class="note"><b>안 가도 됩니다.</b> OZ562가 늦춰져 생긴 1시간 25분을 쓰고 싶을 때만. 점심이 늘어졌거나 지쳤으면 그냥 카페·골목 산책으로 흘려보내세요.<br>테르미니역 바로 옆이라 <b>공항 동선 위에 그대로 걸립니다</b> — 보고 나와서 레오나르도 익스프레스를 타면 끝. 금요일 정상 개관(화~일 09:00~19:00, 마지막 입장 18:00), €8/인, 예약 불필요, 실내라 비 와도 무관. 아우구스투스 부인 리비아 별장 프레스코·복서 청동상. <b>1시간이면 충분</b></span><span class="addr">📍 Palazzo Massimo alle Terme, Largo di Villa Peretti 2 <span class="en">(Termini역 도보 2분)</span></span><a class="map" href="https://www.google.com/maps/search/?api=1&query=Palazzo+Massimo+alle+Terme+Roma" target="_blank" rel="noopener">🗺 지도</a></div></div>
+        <div class="row"><div class="time">17:00</div><div class="act">짐 찾기 → FCO 이동<span class="note">정액 택시 €50(45분) 또는 도보 5분 Barberini→메트로A Termini→레오나르도 익스프레스 €14(32분). 금요일 퇴근시간대라 택시면 <b>17:15 출발</b>. 팔라초 마시모에 갔다면 짐을 미리 찾아 테르미니 물품보관소에 맡기고 보는 편이 동선상 깔끔</span></div></div>
+        <div class="row"><div class="time">19:45</div><div class="act">피우미치노 공항(FCO) 도착 — 하드 마감<span class="note">출발 3시간 전. 아시아나 체크인 카운터도 보통 3시간 전 오픈이라 <b>더 일찍 가도 기다립니다</b>. 수하물·세금환급(택스리펀드) 키오스크 시간 필요 — 논-EU 환급은 출국심사 전 세관 승인</span></div></div>
+        <div class="row"><div class="time">22:45</div><div class="act">OZ562 FCO → ICN<span class="note"><b>2026-09-18 변경 통보: 21:25 → 22:45</b>(항공기 운영안 조정). 인천 도착 10/24(토) 15:40 → <b>약 17:00</b>. 공항픽업·다음 일정 있으면 다시 잡으세요</span></div></div>
       </div>
       <div class="alts">
-        <span class="alt">☔ 비: 실내로 — 도리아 팜필리 미술관 or 마시모 궁 국립로마박물관(테르미니 옆, 공항 동선상 유리)</span>
+        <span class="alt">☔ 비: 실내로 — 오후를 통째로 팔라초 마시모(위 선택 항목)에 쓰거나 도리아 팜필리 미술관</span>
+        <span class="alt">😌 <b>팔라초 마시모는 선택입니다</b> — 점심이 늘어졌거나 지쳤으면 생략하고 카페에서 쉬다 공항으로. 17:00 짐 찾기만 지키면 됩니다</span>
         <span class="alt">🈳 점심 만석: Pastificio Guerra(Via della Croce 8, 서서 먹는 파스타 €4, 스페인계단 옆) — 12:30~15:00만</span>
       </div>
     </div>
@@ -628,7 +634,8 @@
         <label class="item"><input type="checkbox" data-k="p-etias" /><span class="box"><svg viewBox="0 0 14 14"><path d="M2 7.5 L6 11 L12 3" /></svg></span><span class="txt"><span class="name">솅겐 ETIAS 시행 여부 확인 <span class="tag hot">확인</span></span><span class="desc">한국 여권은 솅겐 90일 무비자. ETIAS(전자여행허가) 시행 시작됐는지 travel-europe.europa.eu에서 확인 후 필요하면 신청(€7, 몇 분)</span></span></label>
         <label class="item"><input type="checkbox" data-k="p-flight-athjtr" /><span class="box"><svg viewBox="0 0 14 14"><path d="M2 7.5 L6 11 L12 3" /></svg></span><span class="txt"><span class="name">GQ350 확인 (예약 완료) — 시각·수하물 <span class="tag hot">확인</span></span><span class="desc">Sky Express GQ350, 티켓상 ATH 14:00 출발. ⚠ 2026-09-13 재확인 시점에도 공개 시간표는 여전히 17:15로 조회됨 — 아직 안 풀린 불일치이니 e-티켓 실제 시각을 지금 재확인. 수하물: SKY Basic·Joy+=15kg / Enjoy=23kg / 미포함 fare면 온라인 선결제(€15~40, 공항결제는 2배). 2주 여행이면 23kg 권장. 출발 전 온라인 체크인</span></span></label>
         <label class="item"><input type="checkbox" data-k="p-flight-fr3021" /><span class="box"><svg viewBox="0 0 14 14"><path d="M2 7.5 L6 11 L12 3" /></svg></span><span class="txt"><span class="name">FR3021 확인 (예약 완료 · 10/19 17:30) <span class="tag hot">확인</span></span><span class="desc">JTR 17:30 → FCO 18:55(T1). Ryanair 앱 <b>온라인 체크인 필수</b>(출발 24h 전, 공항 발권 수수료 큼). 무료 기내가방 40×20×25cm 1개 — 초과·위탁은 <b>지금 온라인 선결제</b>가 공항보다 훨씬 쌈. 위탁 부치면 수속 마감(출발 40분 전) 주의</span></span></label>
-        <label class="item"><input type="checkbox" data-k="p-flight-oz-intl" /><span class="box"><svg viewBox="0 0 14 14"><path d="M2 7.5 L6 11 L12 3" /></svg></span><span class="txt"><span class="name">국제선(OZ521+A3603 / OZ562) 수하물·연결 확인 <span class="tag hot">확인 안 됨</span></span><span class="desc">10/10 ICN→ATH는 <b>OZ521(ICN→LHR)+A3603(LHR→ATH) 연결편</b> — 히드로 환승 약 2시간15분, 국제-국제 환승이라 입국심사는 없지만 <b>수하물이 ATH까지 through-check 되는 단일 예약인지</b> 항공사·여행사에 지금 확인 필수(별도 발권이면 환승시간 부족). 10/23 OZ562(FCO→ICN, 21:25 출발)는 직항이라 문제 없음, 좌석·수하물만 확인</span></span></label>
+        <label class="item"><input type="checkbox" data-k="p-flight-oz-intl" /><span class="box"><svg viewBox="0 0 14 14"><path d="M2 7.5 L6 11 L12 3" /></svg></span><span class="txt"><span class="name">🔴 OZ521 스케줄 변경 대응 — 구매처에 전화 <span class="tag hot">최우선</span></span><span class="desc"><b>2026-09-18 통보: OZ521 07:50 → 08:30.</b> LHR 도착 약 15:00, A3603(16:35) 환승이 <b>1시간 35분</b>으로 축소. 둘 다 히드로 T2라 터미널 이동은 없지만 여유가 5~35분뿐.<br><b>① 먼저 e-티켓으로 자가진단(30초)</b> — 구간별 Ticket Number를 보세요. 세 구간이 <b>988</b>로 시작하는 <b>한 종류</b>면 단일 발권(수하물 ICN→ATH through-check 보장). A3603에만 <b>390</b>(아에게안 스톡) 별도 번호가 있으면 <b>별도 발권 → 95분으로는 불가능</b>.<br><b>② 연락처</b> — <b>구매처가 먼저</b>입니다(발권한 곳만 조회·변경 가능). 아시아나 직접 구매면 <b>1588-8000</b>(09:00~18:00). <b>메일 말고 전화</b> — 무상 재조정은 통화 중 처리되고 메일은 며칠 걸리는 사이 대체편 좌석이 빠집니다.<br><b>③ 요구할 3가지</b> — (1) A3603이 single ticket인지 + 수하물 through-check 여부 (2) 변경된 스케줄에서 LHR 95분이 MCT를 충족하는지(illegal connection 여부) (3) <b>항공사 귀책 변경이므로 무상 재조정 요청</b> + 미스커넥트 시 A3609(LHR 22:15 → ATH 03:50) 보호 확약</span></span></label>
+        <label class="item"><input type="checkbox" data-k="p-flight-oz562" /><span class="box"><svg viewBox="0 0 14 14"><path d="M2 7.5 L6 11 L12 3" /></svg></span><span class="txt"><span class="name">🟢 OZ562 변경 반영 — 귀국 후 일정 재확인</span><span class="desc"><b>2026-09-18 통보: 10/23 FCO 출발 21:25 → 22:45.</b> 인천 도착 10/24(토) 15:40 → <b>약 17:00</b>. FCO 하드 마감은 18:20 → <b>19:45</b>로 밀려 로마 마지막 날에 1시간 25분이 더 생겼습니다(팔라초 마시모를 선택 항목으로 넣어둠). <b>10/24 공항 픽업·귀가 교통·다음 날 출근 등 귀국 후 일정이 있으면 다시 잡으세요.</b></span></span></label>
         <label class="item"><input type="checkbox" data-k="p-southtour" /><span class="box"><svg viewBox="0 0 14 14"><path d="M2 7.5 L6 11 L12 3" /></svg></span><span class="txt"><span class="name">10/21 남부투어 예약 완료 — 확정서 확인 <span class="tag hot">예약완료</span></span><span class="desc">우노트래블 #3440846(포지타노·아말피, 06:20 Hotel Galles 픽업). 확정서 오면 <b>정확한 해산 시각</b>(공식 안내엔 없음) 확인. 최소 3인 모객 조건이라 출발 전날 확정 문자 대기. 수영복·선글라스·편한 신발 준비, 폼페이 입장료·점심·미니버스·페리 비용은 현장 별도 결제</span></span></label>
         <label class="item"><input type="checkbox" data-k="p-guide-reply" /><span class="box"><svg viewBox="0 0 14 14"><path d="M2 7.5 L6 11 L12 3" /></svg></span><span class="txt"><span class="name">가이드에게 회신 보내기 <span class="tag hot">오늘 할 일</span></span><span class="desc">“10월 11일 오후(14:00~18:00)로 변경 확정합니다” 답장 + 정확한 집합 장소·시간, 필요한 입장권 시간대(대략 14:00 전후) 재확인해서 받아두기</span></span></label>
         <label class="item"><input type="checkbox" data-k="p-acropolis-tour" /><span class="box"><svg viewBox="0 0 14 14"><path d="M2 7.5 L6 11 L12 3" /></svg></span><span class="txt"><span class="name">마이리얼트립 한국어 투어 — 일정 변경됨 (10/11 14:00~18:00) <span class="tag hot">변경</span></span><span class="desc">‘인문학의 원조, 고대 그리스 문화산책’ · <b>experiences.myrealtrip.com/products/3852663</b> · 원래 10/12 08:00였으나 가이드 선약으로 <b>10/11 14:00~18:00(4시간)</b>로 재조정. ₩140,000(2인). 집합: 아크로폴리스역(M2) 지하 1층 박공머리 조각상 앞. <b>입장료 불포함</b></span></span></label>
@@ -967,7 +974,7 @@
       [ [41.9036,12.4890,"Casa Guttmann 출발 · 08:20"],[41.9065,12.4536,"바티칸 박물관·시스티나 · 09:00"],[41.9022,12.4539,"성 베드로 대성당 · 12:00"],[41.9070,12.4600,"점심 Prati/Borgo · 13:30"],[41.9031,12.4663,"천사의 성 · 15:00"],[41.8986,12.4769,"저녁 판테온 인근 · 19:00"],[41.9036,12.4890,"Casa Guttmann 취침 · 21:00"] ],
       [ [41.9036,12.4890,"Casa Guttmann 출발 · 06:00"],[41.9075,12.5025,"픽업 Hotel Galles · 06:20"],[40.7461,14.4989,"폼페이 유적 · 09:00"],[40.6263,14.3757,"소렌토 전망대 · 11:00"],[40.6270,14.5310,"아말피 코스트 해안도로 · 13:00"],[40.6280,14.4849,"포지타노 자유시간 · 15:00"],[40.6824,14.7681,"살레르노 페리 도착 · 18:00"],[41.9036,12.4890,"로마 도착·해산 · 21:00(추정)"] ],
       [ [41.9036,12.4890,"Casa Guttmann 출발 · 08:20"],[41.8902,12.4922,"콜로세움 · 09:00"],[41.8912,12.4864,"포로 로마노·팔라티노 · 10:45"],[41.8986,12.4769,"판테온 · 13:00"],[41.8946,12.4740,"Roscioli 점심 · 14:30"],[41.8894,12.4695,"산타 마리아 인 트라스테베레 · 16:00"],[41.8917,12.4630,"자니콜로 언덕 일몰 · 17:15"],[41.8985,12.4675,"마지막 만찬 · 20:00"],[41.9036,12.4890,"Casa Guttmann 취침 · 22:00"] ],
-      [ [41.9036,12.4890,"Casa Guttmann 출발 · 08:00"],[41.8998,12.4800,"이른 아침 트레비·판테온 · 08:00"],[41.9055,12.4820,"마지막 점심(스페인계단 인근) · 11:30"],[41.9036,12.4890,"체크아웃·짐 찾기 · 15:30"],[41.8003,12.2389,"피우미치노 공항 FCO · 18:20"] ]
+      [ [41.9036,12.4890,"Casa Guttmann 출발 · 08:00"],[41.8998,12.4800,"이른 아침 트레비·판테온 · 08:00"],[41.9055,12.4820,"마지막 점심(스페인계단 인근) · 11:30"],[41.9018,12.4980,"(선택) 팔라초 마시모 · 15:00"],[41.9036,12.4890,"체크아웃·짐 찾기 · 17:00"],[41.8003,12.2389,"피우미치노 공항 FCO · 19:45"] ]
     ];
     var FOOD = [
       null,

diff --git a/build.js b/build.js
@@ -69,8 +69,11 @@ const item = (k, name, desc) =>
 const CHECK = [
   // 0 · 10/10 인천→아테네
   [
-    item("p-flight-oz-intl", "OZ521+A3603 연결편 수하물·환승 확인 <span class='tag hot'>확인 안 됨</span>", "ICN→LHR(OZ521)→ATH(A3603), 히드로 환승 약 2시간15분(입국심사 없음). 수하물이 ATH까지 through-check 되는 단일 예약인지 지금 확인 — 별도 발권이면 환승시간 부족"),
+    item("p-flight-oz-intl", "🔴 OZ521 변경 → LHR 환승 95분, 구매처에 전화 <span class='tag hot'>최우선</span>", "<b>2026-09-18 통보: OZ521 07:50 → 08:30.</b> LHR 도착 약 15:00 → A3603(16:35) 환승이 <b>2h15 → 1h35</b>. 둘 다 히드로 T2라 터미널 이동은 없지만 여유가 5~35분뿐. <b>① e-티켓 자가진단</b>: 구간별 Ticket Number가 <b>988</b> 한 종류면 단일 발권(through-check 보장), A3603에 <b>390</b> 별도 번호면 별도 발권이라 95분으로 불가. <b>② 구매처 먼저</b>(발권처만 조회·변경 가능). 아시아나 직접이면 1588-8000(09:00~18:00). <b>메일 말고 전화</b>. <b>③ 요구</b>: single ticket 여부 · MCT 충족 여부 · <b>항공사 귀책이므로 무상 재조정</b> + A3609(22:15→ATH 03:50) 보호 확약"),
+    item("p-flight-oz562", "🟢 OZ562 변경 → 귀국 후 일정 재확인", "<b>10/23 FCO 출발 21:25 → 22:45.</b> 인천 도착 10/24(토) 15:40 → <b>약 17:00</b>. 10/24 공항 픽업·귀가 교통 등이 잡혀 있으면 다시 잡을 것"),
     item("p-athens-transfer", "아테네 스튜디오 심야 픽업 확인 <span class='tag hot'>출발 전</span>", "22:15 도착·심야 체크인 가능 메일. 픽업 제공되면 예약(심야 택시 흥정 방지)"),
+    item("d10-icn", "ICN 05:30 도착 (OZ521 08:30 출발)", "출발 3시간 전. 변경된 시각 기준 — 예전 07:50 기준으로 알람 맞춰두지 말 것"),
+    item("d10-lhr", "LHR 내리자마자 게이트 확인 후 직행", "환승 1시간 35분뿐. 라운지·면세는 시간 남을 때만. A3603 탑승 마감은 16:15가 실질 마감선. 도착 게이트가 T2B(위성)면 셔틀 5~10분 추가"),
     item("d10-esim", "eSIM 활성화 확인", "착륙 직후 데이터 켜지게. 안 되면 공항 와이파이로 재설정"),
     item("d10-cash", "공항 ATM에서 소액 유로 인출", "택시비용. 은행계열 ATM, ‘원화 환산(DCC)’ 뜨면 거부"),
   ],
@@ -159,7 +162,8 @@ const CHECK = [
   [
     item("d23-checkout", "Casa Guttmann 체크아웃 · 짐 보관", "숙소 or Radical Storage 앱(€5~6/개)"),
     item("d23-taxrefund", "택스리펀 서류 → FCO 세관", "출국심사 전 세관 승인/키오스크. 시간 걸리니 공항 일찍"),
-    item("d23-fco", "15:30~15:45 FCO 이동", "정액택시 €50 / 레오나르도 익스프레스 €14. 18:20 도착 목표(OZ562 21:25 → ICN 10/24 15:40)"),
+    item("d23-massimo", "(선택) 팔라초 마시모 15:00", "<b>안 가도 됨.</b> OZ562가 밀려 생긴 1h25를 쓰고 싶을 때만. 테르미니역 옆이라 공항 동선 위. 금 09:00~19:00(마지막 입장 18:00), €8/인, 예약 불필요. 지치면 생략하고 카페에서 쉬기"),
+    item("d23-fco", "17:00~17:15 FCO 이동", "정액택시 €50 / 레오나르도 익스프레스 €14. <b>19:45 도착 목표</b>(OZ562 <b>22:45</b> → ICN 10/24 <b>약 17:00</b>). 금요일 퇴근시간대 감안"),
   ],
 ];
 
@@ -181,7 +185,8 @@ const prepGeneral = [
   item("r-daybag", "보안 크로스백 + 물통", "로마 지하철·트라스테베레·나보나 소매치기. 유럽 수돗물·분수 식수 가능"),
 ];
 const prepCalendar = `<div class="note-card">📅 <b>예약 캘린더 (역산)</b><br>
-· <b>지금</b>: 가이드 회신 · 마이리얼트립 아테네 투어 · hhticket 통합권 · ATH/FR/국제선 항공 확인 · 여권/보험/eSIM · 10/21 남부투어 확정서 확인(예약완료)<br>
+· <b>🔴 오늘 당장</b>: <b>OZ521 스케줄 변경(07:50→08:30) → LHR 환승 95분</b> 구매처에 전화 · Cavo Tagoo 10/19 시즌 종료 확인 · GQ350 실제 시각 확정<br>
+· <b>지금</b>: 가이드 회신 · 마이리얼트립 아테네 투어 · hhticket 통합권 · 여권/보험/eSIM · 10/21 남부투어 확정서 확인(예약완료)<br>
 · <b>미슐랭</b>(Aroma 또는 Per Me, 10/22 저녁): 2~3개월 전<br>
 · <b>콜로세움·판테온</b>(10/22로 이동): 콜로세움 30일 전(9/22) 오픈 즉시, 판테온은 여유<br>
 · <b>산토리니 와인투어 · 요트투어(10/17) · Roscioli · 아테네 브루어리 투어</b>: 3주~1주 전<br>
@@ -629,7 +634,7 @@ const html = `<meta charset="utf-8" />
 <main class="deck" id="deck">
 ${pagesHtml}
 <section class="daypage" id="pg-end">
-  <div class="day-h"><div class="daytag" style="--c: var(--gold)"><div><span class="dow">토</span><div class="dt">10/24</div></div></div><div><div class="title">인천 도착</div><div class="sub">OZ562 FCO 21:25 → ICN 15:40</div></div></div>
+  <div class="day-h"><div class="daytag" style="--c: var(--gold)"><div><span class="dow">토</span><div class="dt">10/24</div></div></div><div><div class="title">인천 도착</div><div class="sub">OZ562 FCO 22:45 → ICN 약 17:00</div></div></div>
   <div class="note-card">집으로. 수고했어요 ✈<br>지도는 인터넷 필요(오프라인은 각 날 ‘동선’ 텍스트 + 캡처 이미지). 값(영업시간·요금·시각)은 예약 전 공식 사이트 재확인.</div>
 </section>
 </main>

diff --git a/mapshot.html b/mapshot.html
@@ -25,7 +25,7 @@ var DAYS = [
       [ [41.9036,12.4890,"Casa Guttmann 출발 · 08:20"],[41.9065,12.4536,"바티칸 박물관·시스티나 · 09:00"],[41.9022,12.4539,"성 베드로 대성당 · 12:00"],[41.9070,12.4600,"점심 Prati/Borgo · 13:30"],[41.9031,12.4663,"천사의 성 · 15:00"],[41.8986,12.4769,"저녁 판테온 인근 · 19:00"],[41.9036,12.4890,"Casa Guttmann 취침 · 21:00"] ],
       [ [41.9036,12.4890,"Casa Guttmann 출발 · 06:00"],[41.9075,12.5025,"픽업 Hotel Galles · 06:20"],[40.7461,14.4989,"폼페이 유적 · 09:00"],[40.6263,14.3757,"소렌토 전망대 · 11:00"],[40.6270,14.5310,"아말피 코스트 해안도로 · 13:00"],[40.6280,14.4849,"포지타노 자유시간 · 15:00"],[40.6824,14.7681,"살레르노 페리 도착 · 18:00"],[41.9036,12.4890,"로마 도착·해산 · 21:00(추정)"] ],
       [ [41.9036,12.4890,"Casa Guttmann 출발 · 08:20"],[41.8902,12.4922,"콜로세움 · 09:00"],[41.8912,12.4864,"포로 로마노·팔라티노 · 10:45"],[41.8986,12.4769,"판테온 · 13:00"],[41.8946,12.4740,"Roscioli 점심 · 14:30"],[41.8894,12.4695,"산타 마리아 인 트라스테베레 · 16:00"],[41.8917,12.4630,"자니콜로 언덕 일몰 · 17:15"],[41.8985,12.4675,"마지막 만찬 · 20:00"],[41.9036,12.4890,"Casa Guttmann 취침 · 22:00"] ],
-      [ [41.9036,12.4890,"Casa Guttmann 출발 · 08:00"],[41.8998,12.4800,"이른 아침 트레비·판테온 · 08:00"],[41.9055,12.4820,"마지막 점심(스페인계단 인근) · 11:30"],[41.9036,12.4890,"체크아웃·짐 찾기 · 15:30"],[41.8003,12.2389,"피우미치노 공항 FCO · 18:20"] ]
+      [ [41.9036,12.4890,"Casa Guttmann 출발 · 08:00"],[41.8998,12.4800,"이른 아침 트레비·판테온 · 08:00"],[41.9055,12.4820,"마지막 점심(스페인계단 인근) · 11:30"],[41.9018,12.4980,"(선택) 팔라초 마시모 · 15:00"],[41.9036,12.4890,"체크아웃·짐 찾기 · 17:00"],[41.8003,12.2389,"피우미치노 공항 FCO · 19:45"] ]
     ];
 var d = +(new URLSearchParams(location.search).get("d") || 0);
 var pts = DAYS[d] || DAYS[0];

diff --git a/sw.js b/sw.js
@@ -2,7 +2,7 @@
    - 앱 셸(HTML·Leaflet·아이콘·PDF)은 설치 시 프리캐시 → 완전 오프라인
    - OpenStreetMap 타일은 "본 적 있는 곳"만 런타임 캐시(상한 300, OSM 정책상 대량 선다운로드 안 함)
    - SVG 개략 지도는 페이지에 내장되어 네트워크가 전혀 필요 없음 */
-const APP_CACHE = "gi-app-v5";
+const APP_CACHE = "gi-app-v6";
 const TILE_CACHE = "gi-tiles-v1";
 const TILE_MAX = 300;
 
